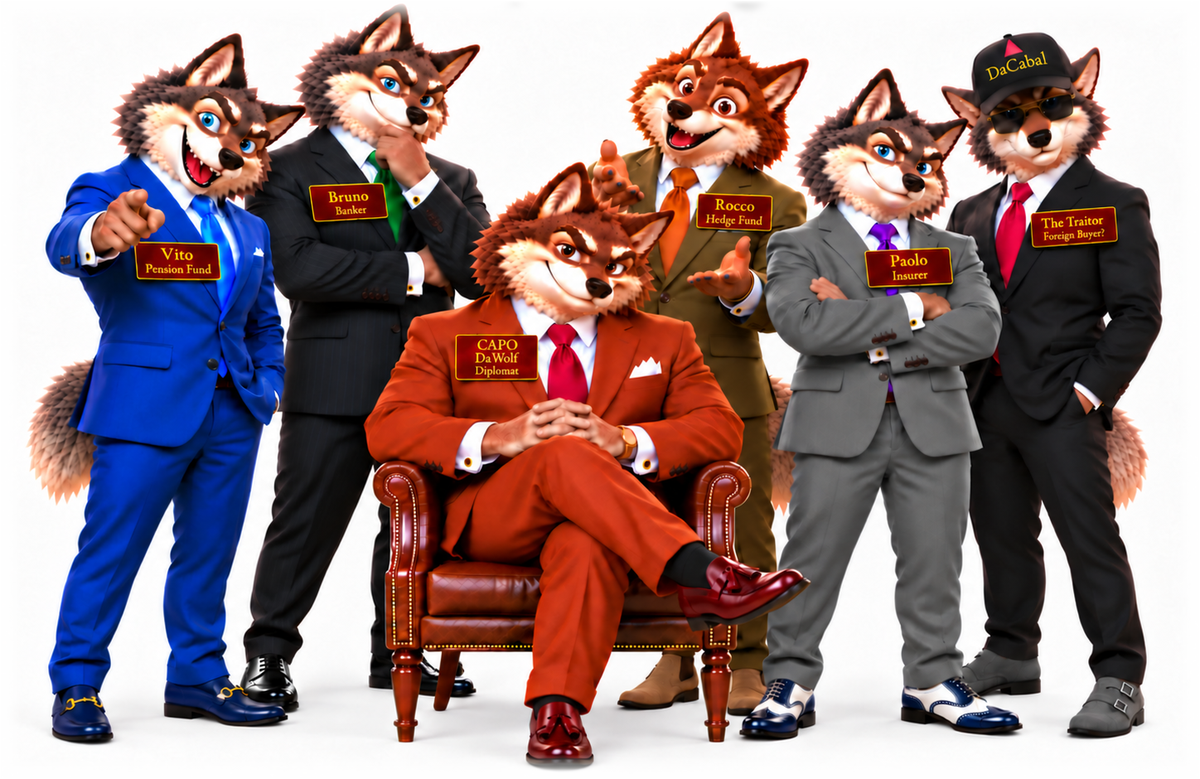
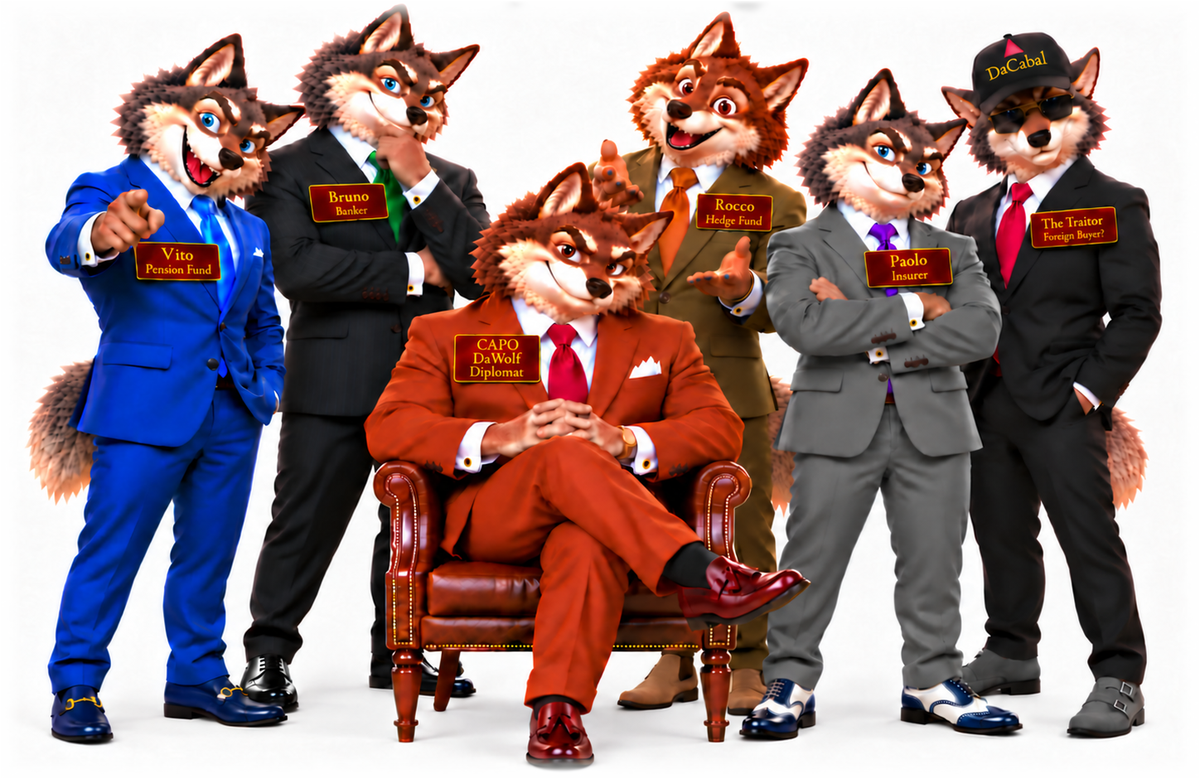
DaCabal crew: Chip's DaWolf version

diff --git a/cast/index.html b/cast/index.html
@@ -89,7 +89,7 @@
       <h2 id="da-cabal-h">DaCabal</h2>
       <p>DaCabal acts as one, but is more than one. DaCabal is the pack of wolves. The boss is Capo DaWolf. He gives the orders. His beat is Washington’s debt, not your savings. Vito, Bruno, Rocco and Paolo work the desk. They sell first and ask questions later. Their battle cry is one word: “Yours.” On a bond desk, that’s trader speak for: I sold. You bought. I’m flat. You’re long.</p>
       <p class="role">From <a href="https://chipcorley.substack.com/p/the-bond-vigilantes-who-are-they">The Bond Vigilantes: Who Are They?</a> (Oct 6, 2026)</p>
-      <img class="crew" src="../assets/cast/dacabal-crew.png?v=7" alt="Six suited wolves on white. Capo DaWolf, Diplomat, in a rust suit and oxblood tassel loafers, sits in a leather chair. Around him: Vito, Pension Fund, in royal blue with navy horsebit loafers; Bruno, Banker, in black pinstripe with black oxfords; Rocco, Hedge Fund, in olive with tan suede Chelsea boots; Paolo, Insurer, in gray with navy-and-white spectator shoes; and a wolf in a DaCabal cap and sunglasses whose name tag reads The Traitor, Foreign Buyer?, in black with gray monk-strap shoes." width="1200" height="779">
+      <img class="crew" src="../assets/cast/dacabal-crew.png?v=8" alt="Six suited wolves on white. Capo DaWolf, Diplomat, in a rust suit and oxblood tassel loafers, sits in a leather chair. Around him: Vito, Pension Fund, in royal blue with navy horsebit loafers; Bruno, Banker, in black pinstripe with black oxfords; Rocco, Hedge Fund, in olive with tan suede Chelsea boots; Paolo, Insurer, in gray with navy-and-white spectator shoes; and a wolf in a DaCabal cap and sunglasses whose name tag reads The Traitor, Foreign Buyer?, in black with gray monk-strap shoes." width="1200" height="779">
       <ul class="crew-grid">
         <li><b>Vito</b>Pension fund<br><i>New York</i></li>
         <li><b>Bruno</b>Banker<br><i>Zurich</i></li>
